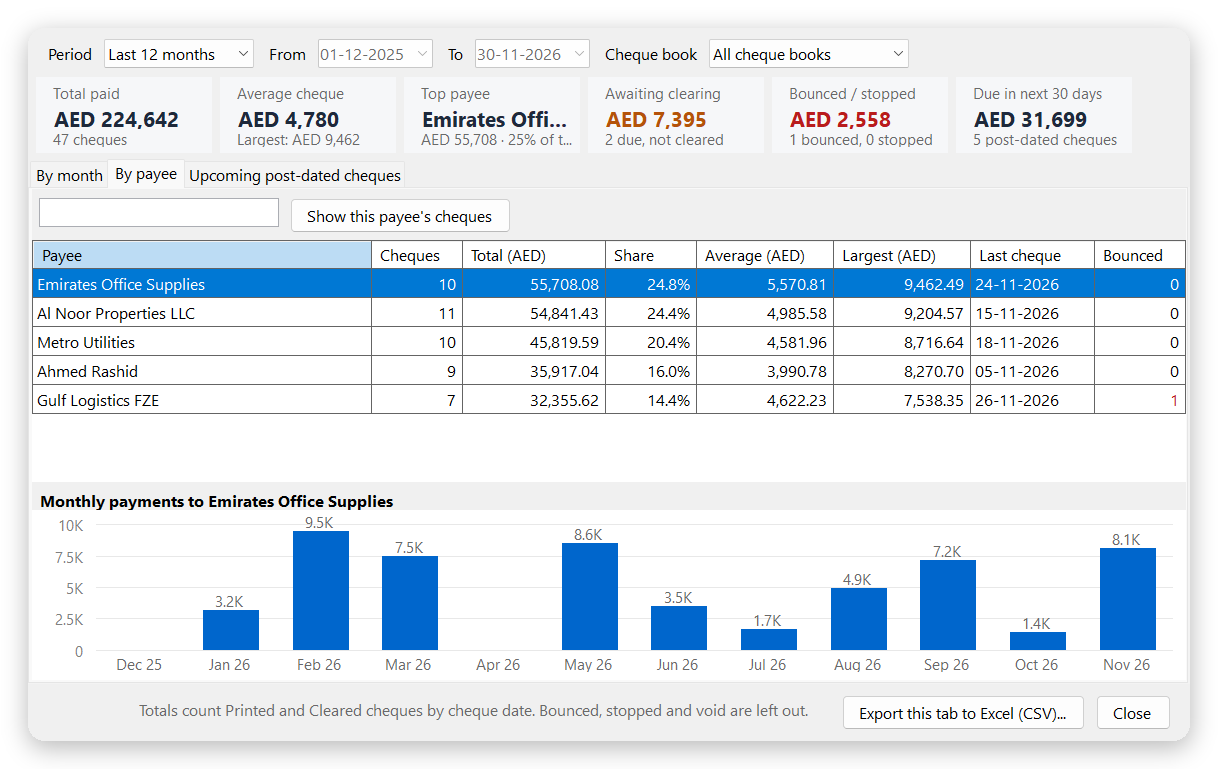
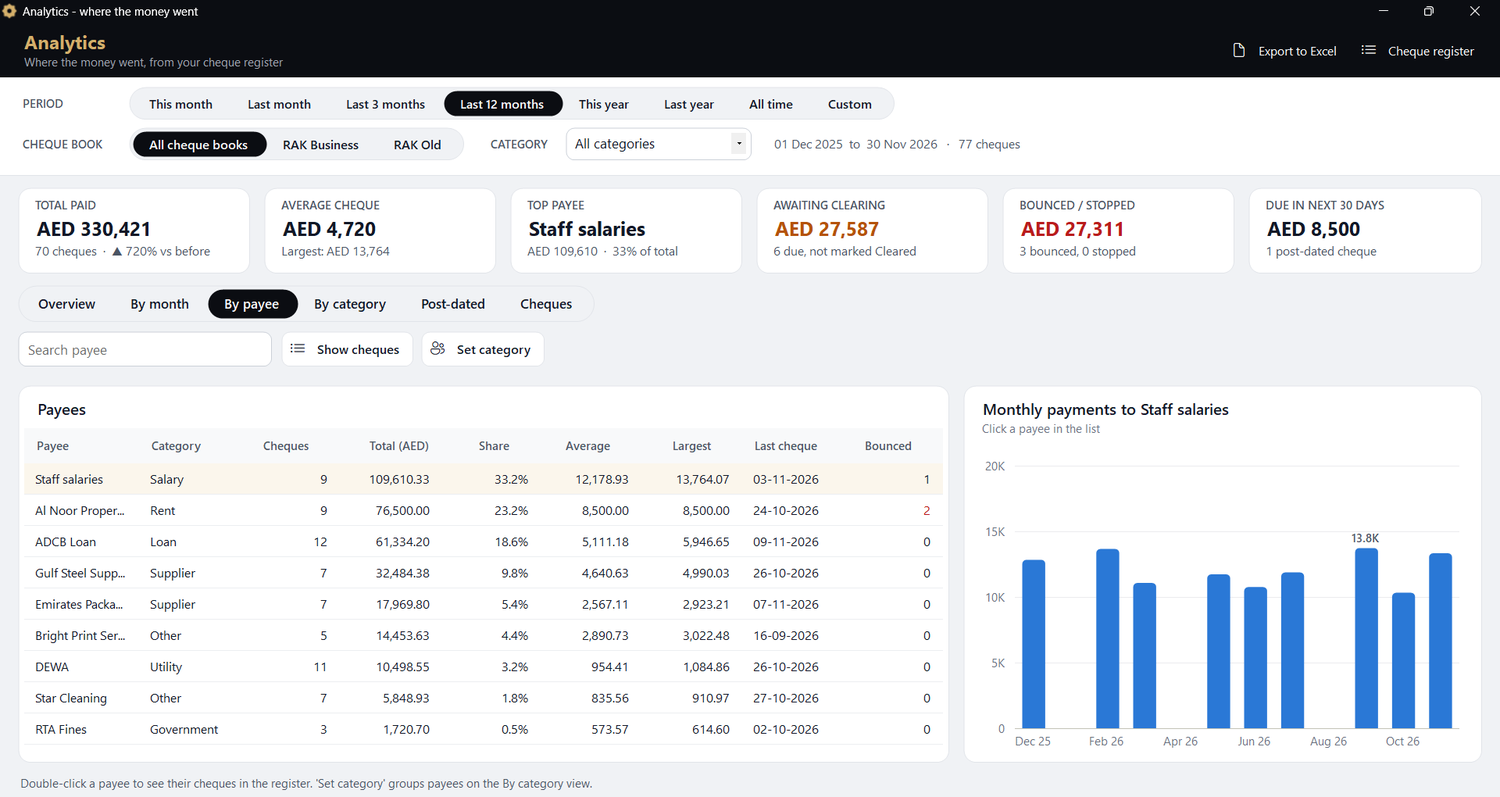
MIT License; README: open source, no account, data stays on your PC
- LICENSE (MIT), shipped as LICENSE.txt in the setup and the portable ZIP
- About window: free and open source, no account, nothing sent anywhere
- README: privacy section listing every time the app goes online, FAQ on accounts
  and open source, License section, features up to 2.1.9, new screenshots (sample data)
- README and installer help: cheque goes in standing up, centred (not A4 landscape corner)
- CONTRIBUTING: contributions are MIT; no sign-in, tracking or uploads

diff --git a/src/ChequeWriter/SupportForm.cs b/src/ChequeWriter/SupportForm.cs
@@ -82,7 +82,9 @@ public class SupportForm : Form
         {
             AutoSize = true, MaximumSize = new Size(560, 0), ForeColor = Color.DimGray, Margin = new Padding(3, 10, 3, 3),
             Font = new Font("Segoe UI", 8.5f),
-            Text = $"© 2026 {AppInfo.Author}. {AppInfo.Name} is an independent project and is not affiliated with or endorsed by " +
+            Text = $"© 2026 {AppInfo.Author}. Free and open source under the MIT License. No account or sign-in: " +
+                   "your cheques, payees and amounts stay on this computer and are never sent anywhere.\n" +
+                   $"{AppInfo.Name} is an independent project and is not affiliated with or endorsed by " +
                    "The National Bank of Ras Al Khaimah (RAKBANK).",
         };
         body.Controls.Add(footer);

diff --git a/README.md b/README.md
@@ -6,8 +6,9 @@
 
 # RAK Special: RAK Bank Cheque Printing Software for Windows
 
-**Free cheque printing software for UAE businesses. Print RAKBANK cheques on any office printer,**<br>
-**with the amount in words in AED and fils, post-dated cheque series, a cheque register and live analytics.**
+**Free, open-source cheque printing software for UAE businesses. Print RAKBANK cheques on any office printer,**<br>
+**with the amount in words in AED and fils, post-dated cheque series, a cheque register and live analytics.**<br>
+**No account, no sign-in, no cloud: everything stays on your own computer.**
 
 <sub>برنامج مجاني لطباعة شيكات بنك رأس الخيمة الوطني (RAKBANK) على ويندوز · كتابة المبلغ بالكلمات بالدرهم والفلس · طباعة الشيكات المؤجلة</sub>
 
@@ -25,8 +26,10 @@
 [![Build](https://img.shields.io/github/actions/workflow/status/KarthickRaja46/RakSpecial/build.yml?style=for-the-badge&label=build&labelColor=0b0d12)](https://github.com/KarthickRaja46/RakSpecial/actions/workflows/build.yml)
 ![Windows 10 | 11](https://img.shields.io/badge/windows-10%20%7C%2011-d4af6a?style=for-the-badge&labelColor=0b0d12)
 ![Free and offline](https://img.shields.io/badge/price-free%20%C2%B7%20offline-d4af6a?style=for-the-badge&labelColor=0b0d12)
+[![MIT License](https://img.shields.io/badge/license-MIT-d4af6a?style=for-the-badge&labelColor=0b0d12)](LICENSE)
+![No account needed](https://img.shields.io/badge/account-not%20needed-d4af6a?style=for-the-badge&labelColor=0b0d12)
 
-**[Features](#-features)** &nbsp;✦&nbsp; **[Screenshots](#-screenshots)** &nbsp;✦&nbsp; **[Install](#-installation)** &nbsp;✦&nbsp; **[Quick start](#-quick-start)** &nbsp;✦&nbsp; **[FAQ](#-frequently-asked-questions)** &nbsp;✦&nbsp; **[Support](#-support)**
+**[Features](#-features)** &nbsp;✦&nbsp; **[Screenshots](#-screenshots)** &nbsp;✦&nbsp; **[Install](#-installation)** &nbsp;✦&nbsp; **[Quick start](#-quick-start)** &nbsp;✦&nbsp; **[Privacy](#-open-source-no-account-your-data-stays-with-you)** &nbsp;✦&nbsp; **[FAQ](#-frequently-asked-questions)** &nbsp;✦&nbsp; **[Support](#-support)** &nbsp;✦&nbsp; **[License](#-license)**
 
 <img src="docs/readme/divider.svg" width="100%" alt="">
 
@@ -73,13 +76,13 @@ way**: correctly spelled, aligned to the real RAK Bank leaf, and recorded in a r
   <tr>
     <td width="33%" valign="top">
       <h3>📊 Live analytics</h3>
-      Total paid by month, payee and category (Rent, Supplier, Salary...), cheques awaiting clearing, bounced cheques,
-      and the post-dated cheques coming up, with charts. Every table exports to Excel.
+      An overview dashboard: money paid by month, top payees, categories (Rent, Supplier, Salary...) and where your
+      cheques stand, plus a <i>Good to know</i> panel in plain words. Every table exports to Excel.
     </td>
     <td width="33%" valign="top">
       <h3>🗂 Register &amp; status</h3>
-      Every printed cheque is recorded. Mark cheques <b>Cleared</b>, <b>Bounced</b>, <b>Stopped</b> or <b>Void</b>, several at once,
-      straight from your bank statement.
+      Every printed cheque is recorded. Mark cheques <b>Cleared</b>, <b>Bounced</b>, <b>Stopped</b> or <b>Void</b>, fix a wrong amount
+      or payee, undo a void, or delete a cheque.
     </td>
     <td width="33%" valign="top">
       <h3>🎯 Layout editor</h3>
@@ -90,8 +93,8 @@ way**: correctly spelled, aligned to the real RAK Bank leaf, and recorded in a r
   <tr>
     <td width="33%" valign="top">
       <h3>🔒 Private &amp; offline</h3>
-      Your cheques, payees and amounts never leave your PC. Automatic <code>.bak</code> copy on every save, plus one-click
-      backup and restore.
+      No account and no sign-in. Your cheques, payees and amounts never leave your PC. Automatic <code>.bak</code> copy
+      on every save, plus one-click backup and restore.
     </td>
     <td width="33%" valign="top">
       <h3>🚀 Easy setup</h3>
@@ -99,9 +102,9 @@ way**: correctly spelled, aligned to the real RAK Bank leaf, and recorded in a r
       and no .NET to install.
     </td>
     <td width="33%" valign="top">
-      <h3>💬 Built-in support</h3>
-      Email or WhatsApp us from <i>Help</i> (F1), with your version and settings already filled in. New versions install
-      with one click.
+      <h3>🔓 Open source (MIT)</h3>
+      Free to use, copy, change and share, for business too. The full source code is in this repository, so anyone can
+      check exactly what it does. New versions install with one click.
     </td>
   </tr>
 </table>
@@ -115,6 +118,9 @@ way**: correctly spelled, aligned to the real RAK Bank leaf, and recorded in a r
 - **A/C Payee crossing** and **"or Bearer" strike-through**, each on or off per cheque.
 - **Live preview** while you type, and **plain-paper test prints** to check alignment before using a real leaf.
 - **Confirm before every print** (date, payee, amount and words) and a **duplicate cheque number** warning.
+- **Last cheque printed** card under the preview, with **Void** (and **Undo void**) and **Edit** in one click.
+  Voided by mistake in the printer? RAK Special offers to print the same cheque again on the next leaf.
+- **Void cheque** for any cheque number, including a spoilt blank leaf.
 
 ### Post-dated cheques (PDC)
 - Enter the payee, amount, first cheque number and first date once, then print the whole series.
@@ -123,16 +129,25 @@ way**: correctly spelled, aligned to the real RAK Bank leaf, and recorded in a r
 ### Cheque register and status
 - Search, date filter, notes, reprint, and **export to Excel (CSV)**.
 - Status **Printed, Cleared, Bounced, Stopped or Void**; a reason is saved for bounced and stopped cheques.
+- **Edit a cheque** already in the register: fix the number, date, payee, amount (the words update too), crossing,
+  status or notes. Only the register changes; the paper cheque is not touched.
+- **Delete** one or several cheques, **Undo void**, and **Remove all void cheques** in one go.
 
 ### Analytics
-- **Summary cards**: total paid, average and largest cheque, top payee, awaiting clearing, bounced or stopped, due in the next 30 days.
+- **Summary cards**: total paid (with the change from the period before), average and largest cheque, top payee,
+  awaiting clearing, bounced or stopped, due in the next 30 days. Click a card to see its details.
+- **Overview**: money paid by month with the monthly average, top payees, a category chart and where your cheques
+  stand (cleared, awaiting clearing, post-dated, bounced, stopped, void).
+- **Good to know**: plain-language findings, e.g. "You paid 12% more than the period before", the biggest cheque,
+  the busiest month, regular payments, cheques not yet marked Cleared and post-dated cheques falling due.
+- Hover any chart for the exact amount; click a month, payee or status to jump to its details.
 - **By month**: chart and table with the change from the previous month; post-dated months shown lighter.
 - **By payee**: cheques, total, share, average, largest and bounces, with a monthly chart per payee.
 - **By category**: totals per payee category (Rent, Supplier, Salary, Utility, Government, Loan, or your own), with a chart.
-- **Upcoming post-dated cheques**: due in the next 30, 90 or 365 days.
+- **Post-dated cheques**: due in the next 30, 90 or 365 days, with how much falls due each month.
 - **Cheques**: every cheque in the period; **remove** test prints or mistakes from analytics (they stay in the register)
   and put them back at any time.
-- Filter by period, cheque book and category. Every table exports to Excel.
+- Filter by period, cheque book and category with one click. Every table exports to Excel.
 
 ### Everyday use
 - Modern workspace: form on the left, live preview on the right, this month's figures always in view.
@@ -149,14 +164,14 @@ way**: correctly spelled, aligned to the real RAK Bank leaf, and recorded in a r
 
 <p align="center">
   <img src="docs/screenshots/main-window.png" width="92%" alt="RAK Special main window: New cheque form, amount in words in AED, live preview on the RAK Bank Business cheque picture and monthly totals">
-  <br><sub><b>Main window</b>: the cheque form, live preview on the real cheque picture, and this month's figures</sub>
+  <br><sub><b>Main window</b>: the cheque form, live preview on the real cheque picture, the last cheque printed (with Void and Edit) and this month's figures</sub>
 </p>
 
 <table>
   <tr>
     <td width="50%" valign="top">
-      <img src="docs/screenshots/analytics-by-month.png" alt="Cheque analytics by month: total paid, monthly chart and month-on-month change in AED">
-      <p align="center"><b>Analytics by month</b><br><sub>Total paid, awaiting clearing, bounced cheques and a monthly chart</sub></p>
+      <img src="docs/screenshots/analytics-overview.png" alt="Cheque analytics overview: total paid by month, top payees, category chart, cheque status and Good to know findings">
+      <p align="center"><b>Analytics overview</b><br><sub>Paid by month, top payees, categories, cheque status and <i>Good to know</i></sub></p>
     </td>
     <td width="50%" valign="top">
       <img src="docs/screenshots/analytics-by-payee.png" alt="Cheque analytics by payee: totals, share and monthly payments per payee">
@@ -166,7 +181,7 @@ way**: correctly spelled, aligned to the real RAK Bank leaf, and recorded in a r
   <tr>
     <td width="50%" valign="top">
       <img src="docs/screenshots/analytics-upcoming.png" alt="Upcoming post-dated cheques (PDC) due in the next 30 days with totals">
-      <p align="center"><b>Upcoming post-dated cheques</b><br><sub>Know how much must be in the account, and by when</sub></p>
+      <p align="center"><b>Post-dated cheques</b><br><sub>How much must be in the account, and by when</sub></p>
     </td>
     <td width="50%" valign="top">
       <img src="docs/screenshots/help-and-support.png" alt="RAK Special help and support window with email and WhatsApp support">
@@ -175,7 +190,7 @@ way**: correctly spelled, aligned to the real RAK Bank leaf, and recorded in a r
   </tr>
 </table>
 
-<sub>Screenshots use sample data.</sub>
+<sub>Screenshots use made-up sample data.</sub>
 
 <img src="docs/readme/divider.svg" width="100%" alt="">
 
@@ -237,8 +252,9 @@ Other banks can be set up with the layout editor; built-in layouts are on the [r
 2. **Test on plain paper**: click **Test print** and hold the sheet against a real cheque in front of a light.
    - Everything shifted the same way → *Tools → Layout editor → Cheque & printer settings → Offset X / Offset Y*.
    - Only one field is off → drag that field in the layout editor.
-3. **Print**: fill in the cheque number, date, payee and amount. Put the cheque in the top-left corner of an
-   A4 landscape page against the paper guide, and press **Print cheque** (Ctrl+P).
+3. **Print**: fill in the cheque number, date, payee and amount, and press **Print cheque** (Ctrl+P). Put the cheque
+   in the printer tray **standing up, narrow side first, centred** between the paper guides. The Print window shows
+   a picture of exactly how.
 4. **Keep the register up to date**: in **Register**, mark cheques **Cleared** as they appear on your bank statement.
    Analytics then shows what is still awaiting clearing.
 
@@ -248,14 +264,35 @@ Other banks can be set up with the layout editor; built-in layouts are on the [r
 | <kbd>Ctrl</kbd> + <kbd>T</kbd> | Analytics |
 | <kbd>F1</kbd> | Help & support |
 
-## 🔒 Your data, privacy and backups
+## 🔒 Open source, no account, your data stays with you
 
-- All data stays **on your computer** in one file: `%APPDATA%\RAK Special\rakspecial-data.json`
-  (layouts, payees, cheque register and settings). The portable version keeps it in a `Data` folder beside the program.
-- Every save keeps the previous version as a `.bak` file. Use **File → Backup data** regularly, and
-  **File → Restore data from backup** to move to a new PC.
-- RAK Special never sends your cheques, payees or amounts anywhere. The only network request is the update check,
-  which reads the latest version number from GitHub. Turn it off in *Tools → Settings → Check for updates*.
+RAK Special is free, open-source software. Anyone can download it, install it and use it. There is **no account to
+create, no sign-in, no subscription, no server and no cloud**. It works like a calculator on your desk: everything
+happens on your own computer.
+
+**Where your data lives.** Everything is kept in one file on your PC:
+`%APPDATA%\RAK Special\rakspecial-data.json` (cheque books, payees, cheque register and settings). The portable
+version keeps it in a `Data` folder beside the program instead. Nobody else, including the author, can see it.
+
+**What RAK Special never does.**
+- It never uploads your cheques, payees, amounts, bank details or files.
+- It has no tracking, telemetry, advertising or usage statistics.
+- It does not need an internet connection to work.
+
+**The only times it goes online:**
+
+| When | What happens | What is sent |
+|---|---|---|
+| Update check, when the program starts | Asks GitHub for the number of the latest release | Nothing about you: only a normal web request naming the program and its version (`RAKSpecial/2.1.9`) |
+| You click **Update now** | Downloads the new setup from this repository's GitHub releases | Nothing about you |
+| You click **Email** or **WhatsApp** in *Help* | Opens your own email or WhatsApp with a message you can read, change or delete before sending | Only what you choose to send |
+
+Turn the update check off in *Tools → Settings → Check for updates*, and RAK Special never connects to the internet
+at all. Because the code is open, you can check all of this yourself: the update check is in
+[`src/ChequeWriter/Updates.cs`](src/ChequeWriter/Updates.cs).
+
+**Backups.** Every save keeps the previous version as a `.bak` file. Use **File → Backup data** regularly, and
+**File → Restore data from backup** to move to a new PC. Uninstalling keeps your data.
 
 <img src="docs/readme/divider.svg" width="100%" alt="">
 
@@ -301,7 +338,22 @@ it prints the date, payee, amount in figures and the amount in words in the righ
 <details>
 <summary><b>Is RAK Special free?</b></summary>
 
-Yes. There is no subscription, licence fee or account to create.
+Yes, completely. It is open source under the [MIT License](LICENSE): no subscription, no licence fee, no trial and
+no account to create. Businesses can use it too.
+</details>
+
+<details>
+<summary><b>Do I need to create an account or sign in?</b></summary>
+
+No. Download it, install it and start printing. There is no login, no registration and no email address needed.
+</details>
+
+<details>
+<summary><b>Is it open source? Can I change it?</b></summary>
+
+Yes. The full source code is in this repository under the MIT License. You can read it, change it, build it yourself
+and share it. Please keep the copyright notice and the licence with any copy. Improvements are welcome as pull
+requests (see [Contributing](#-contributing)).
 </details>
 
 <details>
@@ -334,7 +386,8 @@ printer offset to line it up once.
 <summary><b>Does it need the internet? Is my data safe?</b></summary>
 
 No internet is needed. Your cheques, payees and amounts stay on your PC and are never uploaded. Only the optional update
-check contacts GitHub, and it fetches nothing but the latest version number.
+check contacts GitHub, and it fetches nothing but the latest version number. See
+[Open source, no account, your data stays with you](#-open-source-no-account-your-data-stays-with-you).
 </details>
 
 <details>
@@ -411,6 +464,7 @@ makes GitHub Actions run the tests, build the setup and the portable ZIP, and pu
 | `tests/ChequeWriter.Tests` | xUnit tests |
 | `tools/make_images.py` | Rebuilds `docs/icon.png` and the setup pictures from `src/ChequeWriter/app.ico` |
 | `tools/make_readme_art.py` | Rebuilds the animated README artwork in `docs/readme/` |
+| `LICENSE` | The MIT License (also installed as `LICENSE.txt` beside the program) |
 
 Project links and support contacts are set in one place: `src/ChequeWriter/AppInfo.cs`.
 
@@ -423,7 +477,7 @@ and `rak-old.jpg` (clean pictures at exact cheque size, 200 dpi). Users can stil
 
 Bug reports, cheque layouts for other banks and pull requests are welcome. Please read
 [CONTRIBUTING.md](CONTRIBUTING.md) first. RAK Special prints real cheques, so every change needs tests and a
-plain-paper check.
+plain-paper check. Contributions must keep RAK Special free of accounts, tracking and uploads.
 
 ## 🧭 Roadmap
 
@@ -439,9 +493,16 @@ Have an idea? [Open a feature request](https://github.com/KarthickRaja46/RakSpec
 
 <img src="docs/readme/divider.svg" width="100%" alt="">
 
+## 📄 License
+
+RAK Special is released under the **[MIT License](LICENSE)**. You may use, copy, modify, merge, publish, distribute,
+sublicense and sell copies, for personal or business use, as long as the copyright notice and the licence text are
+kept. The software is provided "as is", without warranty of any kind: always check a printed cheque before signing it.
+
 ## 🏷 About
 
-RAK Special is developed and maintained by **Karthick Raja**. © 2026 Karthick Raja.
+RAK Special is developed and maintained by **Karthick Raja**. © 2026 Karthick Raja. Free and open source under the
+[MIT License](LICENSE).
 
 RAK Special is an independent project. It is **not affiliated with, endorsed by or sponsored by The National Bank
 of Ras Al Khaimah (RAKBANK)**. RAKBANK and RAK Bank are names of their respective owner and are used only to describe
@@ -460,7 +521,7 @@ which cheques this software prints. Always check a printed cheque before signing
 RAK Bank cheque printing software · RAKBANK cheque printer · RAK Bank cheque writer · cheque printing software UAE ·
 cheque printing software Dubai, Abu Dhabi, Sharjah, Ajman, Ras Al Khaimah · cheque writer for Windows ·
 amount in words AED with fils · dirham amount in words · PDC printing · post-dated cheque printing · rent cheque printing ·
-cheque register software · free cheque printing software · business cheque printing UAE
+cheque register software · free cheque printing software · open source cheque printing software · business cheque printing UAE
 
 برنامج طباعة الشيكات · طباعة شيكات بنك رأس الخيمة · برنامج كتابة الشيكات الإمارات · طباعة الشيكات المؤجلة ·
 كتابة المبلغ بالكلمات بالدرهم

diff --git a/CONTRIBUTING.md b/CONTRIBUTING.md
@@ -1,7 +1,13 @@
 # Contributing to RAK Special
 
+RAK Special is open source under the [MIT License](LICENSE). By sending a pull request you agree that your
+contribution is released under the same licence.
+
 Thank you for helping. RAK Special is used to print real cheques, so mistakes cost people money. Please keep
 changes small, tested and easy to check.
+
+**Privacy rule:** RAK Special has no account, no server and no tracking, and it must stay that way. Do not add
+sign-in, telemetry, analytics, crash uploads or anything else that sends a user's data off their computer.
 
 ## Reporting a problem
 
